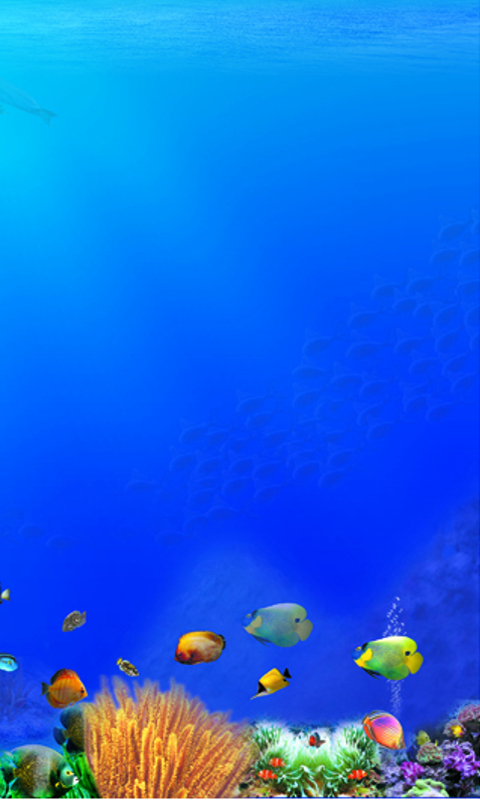
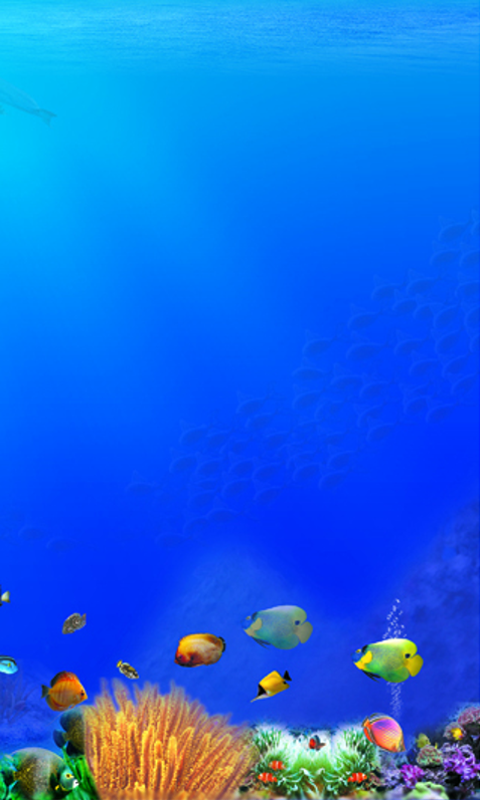
bug fix about update     modify png, add back key response in switch screen     delete welcome png
修改:         penguin_eng-android/assets/data/switch_bg.png
	修改:         penguin_eng-android/assets/models/grammar/words/5stage.gram
	删除:         penguin_eng-android/res/drawable-hdpi/welcom.png
	修改:         penguin_eng-android/src/com/fy/penguineng/AutoUpdateApk.java
	修改:         penguin_eng-android/src/com/fy/penguineng/Welcome.java
	修改:         penguin_eng/src/com/fy/penguineng/Assets.java
	修改:         penguin_eng/src/com/fy/penguineng/screen/SwichScreen.java
	修改:         penguin_eng/src/com/fy/penguineng/world/modules/Temperater.java

Changed region(s): [[0.0, 0.75, 1.0, 1.0], [0.0, 0.7188, 0.0312, 0.7812], [0.0, 0.8125, 0.0312, 0.8438]]

diff --git a/penguin_eng/src/com/fy/penguineng/screen/SwichScreen.java b/penguin_eng/src/com/fy/penguineng/screen/SwichScreen.java
@@ -6,6 +6,9 @@ package com.fy.penguineng.screen;
 import java.util.ArrayList;
 
 import com.badlogic.gdx.Gdx;
+import com.badlogic.gdx.Input.Keys;
+import com.badlogic.gdx.InputMultiplexer;
+import com.badlogic.gdx.InputProcessor;
 import com.badlogic.gdx.Screen;
 import com.badlogic.gdx.scenes.scene2d.InputEvent;
 import com.badlogic.gdx.scenes.scene2d.ui.Image;
@@ -105,7 +108,10 @@ public class SwichScreen implements Screen {
 
 	@Override
 	public void show() {
-		Gdx.input.setInputProcessor(stage);
+		InputMultiplexer inputMultiplexer = new InputMultiplexer();
+		inputMultiplexer.addProcessor(stage);
+		inputMultiplexer.addProcessor(new ScreenInputHandler());
+		Gdx.input.setInputProcessor(inputMultiplexer);
 	}
 
 	@Override
@@ -131,4 +137,57 @@ public class SwichScreen implements Screen {
 		stage.dispose();
 	}
 
+	private class ScreenInputHandler implements InputProcessor {
+
+		@Override
+		public boolean keyDown(int keycode) {
+			if (keycode == Keys.BACK || keycode == Keys.BACKSPACE) {
+				gameMain.setScreen(gameMain.mainScreen);
+			}
+			return false;
+		}
+
+		@Override
+		public boolean keyUp(int keycode) {
+			// TODO Auto-generated method stub
+			return false;
+		}
+
+		@Override
+		public boolean keyTyped(char character) {
+			// TODO Auto-generated method stub
+			return false;
+		}
+
+		@Override
+		public boolean touchDown(int screenX, int screenY, int pointer,
+				int button) {
+			// TODO Auto-generated method stub
+			return false;
+		}
+
+		@Override
+		public boolean touchUp(int screenX, int screenY, int pointer, int button) {
+			// TODO Auto-generated method stub
+			return false;
+		}
+
+		@Override
+		public boolean touchDragged(int screenX, int screenY, int pointer) {
+			// TODO Auto-generated method stub
+			return false;
+		}
+
+		@Override
+		public boolean mouseMoved(int screenX, int screenY) {
+			// TODO Auto-generated method stub
+			return false;
+		}
+
+		@Override
+		public boolean scrolled(int amount) {
+			// TODO Auto-generated method stub
+			return false;
+		}
+	}
 }

diff --git a/penguin_eng/src/com/fy/penguineng/Assets.java b/penguin_eng/src/com/fy/penguineng/Assets.java
@@ -3,14 +3,18 @@ package com.fy.penguineng;
 import com.badlogic.gdx.Gdx;
 import com.badlogic.gdx.assets.AssetManager;
 import com.badlogic.gdx.graphics.Color;
+import com.badlogic.gdx.graphics.Pixmap;
+import com.badlogic.gdx.graphics.Pixmap.Format;
 import com.badlogic.gdx.graphics.Texture;
 import com.badlogic.gdx.graphics.g2d.BitmapFont;
+import com.badlogic.gdx.graphics.g2d.Sprite;
 import com.badlogic.gdx.graphics.g2d.TextureRegion;
 import com.badlogic.gdx.scenes.scene2d.ui.Button.ButtonStyle;
 import com.badlogic.gdx.scenes.scene2d.ui.ImageButton.ImageButtonStyle;
 import com.badlogic.gdx.scenes.scene2d.ui.Label.LabelStyle;
 import com.badlogic.gdx.scenes.scene2d.ui.List.ListStyle;
 import com.badlogic.gdx.scenes.scene2d.ui.Skin;
+import com.badlogic.gdx.scenes.scene2d.utils.SpriteDrawable;
 import com.badlogic.gdx.scenes.scene2d.utils.TextureRegionDrawable;
 
 public class Assets {
@@ -203,8 +207,10 @@ public class Assets {
 		listStyle.font = manager.get(FONT);
 		listStyle.fontColorSelected = Color.WHITE;
 		listStyle.fontColorUnselected = Color.BLACK;
-		listStyle.selection = new TextureRegionDrawable(new TextureRegion(
-				manager.get(btnNormal, Texture.class)));
+		// listStyle.selection = new TextureRegionDrawable(new TextureRegion(
+		// manager.get(btnNormal, Texture.class)));
+		listStyle.selection = new SpriteDrawable(new Sprite(new Texture(
+				new Pixmap(20, 20, Format.RGBA8888))));
 
 		skin = new Skin();
 		skin.add(FONT, labelStyle);

diff --git a/penguin_eng-android/src/com/fy/penguineng/Welcome.java b/penguin_eng-android/src/com/fy/penguineng/Welcome.java
@@ -2,7 +2,6 @@ package com.fy.penguineng;
 
 import android.app.Activity;
 import android.content.Context;
-import android.content.Intent;
 import android.content.SharedPreferences;
 import android.os.Bundle;
 import android.view.GestureDetector;
@@ -27,7 +26,7 @@ public class Welcome extends Activity {
 	private GestureDetector detector;
 	private Context ctx;
 	private int curPos;
-	private ImageView img1, img2, img3, welcome;
+	private ImageView img1, img2, img3;
 
 	@Override
 	protected void onCreate(Bundle savedInstanceState) {
@@ -58,10 +57,6 @@ public class Welcome extends Activity {
 			}
 
 		});
-
-		welcome = new ImageView(this);
-		welcome.setBackgroundResource(R.drawable.welcom);
-		viewFlipper.addView(welcome);
 
 		img1 = new ImageView(this);
 		img1.setBackgroundResource(R.drawable.introduction1);
@@ -142,7 +137,7 @@ public class Welcome extends Activity {
 		}
 
 		private void showPrev() {
-			if (viewFlipper.getCurrentView() != welcome) {
+			if (viewFlipper.getCurrentView() != img1) {
 				viewFlipper.setInAnimation(AnimationUtils.loadAnimation(ctx,
 						R.anim.push_right_in));
 				viewFlipper.setOutAnimation(AnimationUtils.loadAnimation(ctx,

diff --git a/penguin_eng-android/src/com/fy/penguineng/AutoUpdateApk.java b/penguin_eng-android/src/com/fy/penguineng/AutoUpdateApk.java
@@ -182,8 +182,7 @@ public class AutoUpdateApk extends Observable {
 					newApkUrl = result[1];
 					buildNotification();
 				} else {
-					Log.d(TAG, "no update available: result[0]:" + result[0]
-							+ ", re[1]" + result[1]);
+					Log.d(TAG, "no update available");
 				}
 				return result;
 			} catch (ParseException e) {
@@ -193,7 +192,7 @@ public class AutoUpdateApk extends Observable {
 				// e.printStackTrace();
 				Log.e(TAG, e.getMessage());
 			} catch (IOException e) {
-				 e.printStackTrace();
+				e.printStackTrace();
 			} finally {
 				httpclient.getConnectionManager().shutdown();
 				long elapsed = System.currentTimeMillis() - start;

diff --git a/penguin_eng/src/com/fy/penguineng/world/modules/Temperater.java b/penguin_eng/src/com/fy/penguineng/world/modules/Temperater.java
@@ -4,7 +4,7 @@ public class Temperater extends BaseObject {
 	private static final float WIDTH = 0.8f;
 	private static final float HEIGHT = 0.8f;
 
-	public static final int MAX_T = 20;
+	public static final int MAX_T = 12;
 	public float height = 0;
 
 	public Temperater(float x, float y) {
